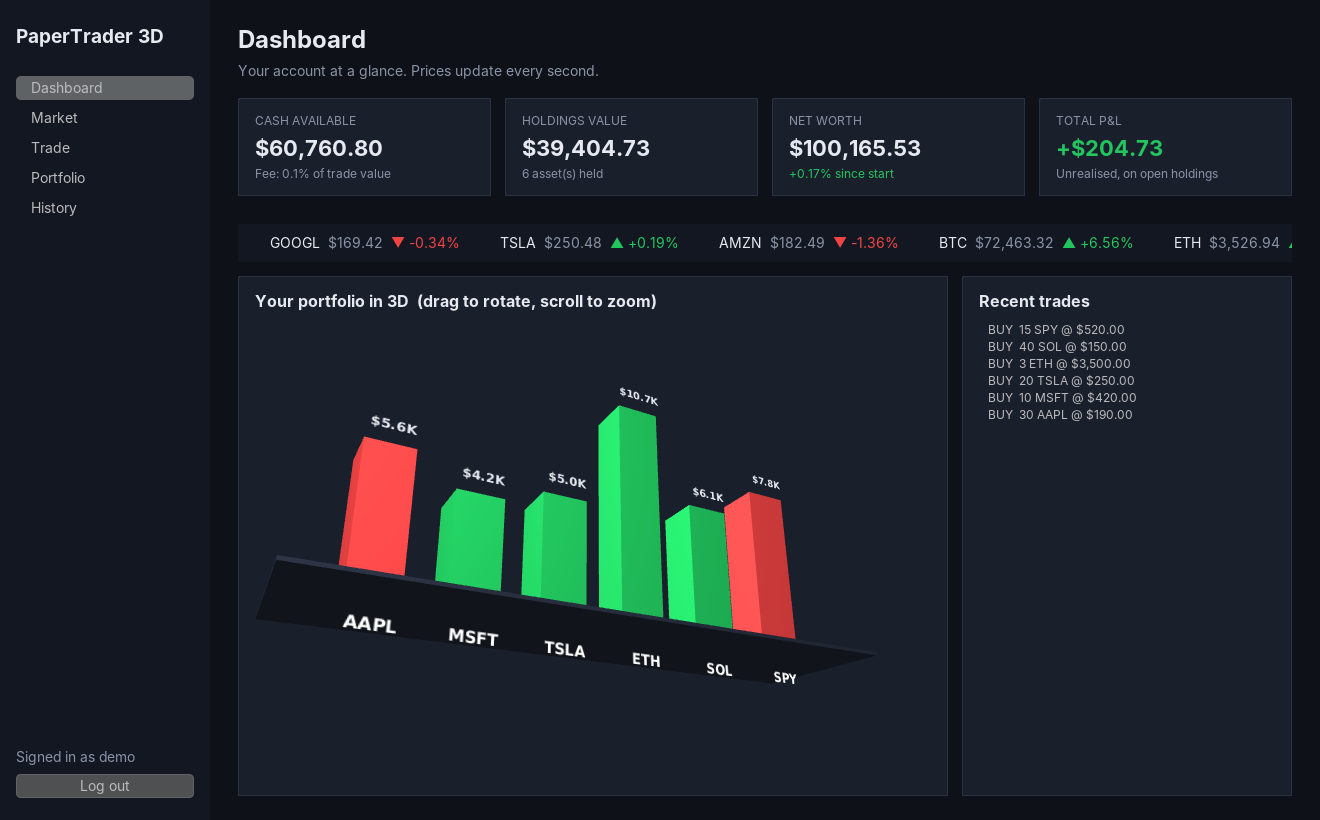
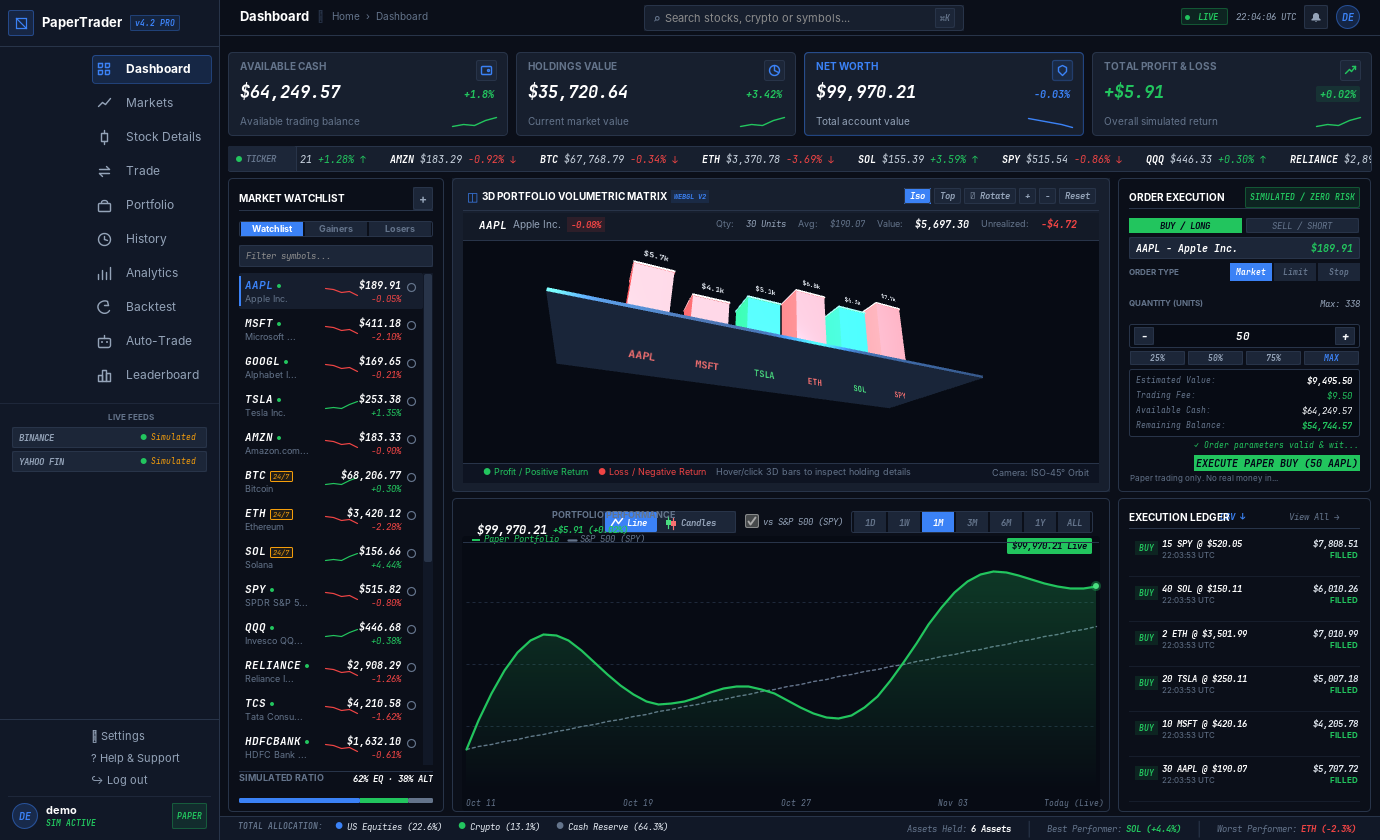
Spiral loop 6: update SRS, UML, docs and screenshots for the new features

diff --git a/README.md b/README.md
@@ -2,7 +2,9 @@
 
 A Java desktop app for practising trading **stocks, crypto and ETFs** with virtual money.
 It uses **real live market prices** (Binance for crypto, Finnhub / Yahoo Finance for stocks and ETFs),
-with Market / Limit / Stop-Loss orders, portfolio P&L, and **3D visuals**
+with Market / Limit / Stop-Loss / Take-Profit orders, realistic fills (bid/ask spread + slippage),
+candlestick charts, an order book, **backtesting with historical replay**, **risk analytics**
+(Sharpe, Sortino, max drawdown, win rate, profit factor), **auto-trading bots**, a **leaderboard**, and **3D visuals**
 (a JavaFX 3D portfolio chart you can rotate and a spinning 3D coin on the login screen).
 
 Built as an OOP / Software Engineering project: four OOP pillars, interfaces, SOLID, high cohesion
@@ -11,8 +13,28 @@ and low coupling, an SRS using **FODA**, 4 UML diagrams, and the **Spiral** SDLC
 | Login (3D coin) | Dashboard (3D portfolio) |
 |---|---|
 | ![login](docs/screenshots/01-login.png) | ![dashboard](docs/screenshots/02-dashboard.png) |
-| **Market (live prices + chart)** | **Trade (order form + preview)** |
-| ![market](docs/screenshots/03-market.png) | ![trade](docs/screenshots/04-trade.png) |
+| **Stock Details (real candlesticks + indicators)** | **Trade terminal (4 order types + order book)** |
+| ![market](docs/screenshots/07-market-candles.png) | ![trade](docs/screenshots/08-trade-orderbook.png) |
+| **Backtest (historical replay 1x/2x/5x)** | **Analytics (risk metrics + equity curve)** |
+| ![backtest](docs/screenshots/09-backtest.png) | ![analytics](docs/screenshots/11-analytics.png) |
+| **Auto-Trade (strategy bots)** | **Leaderboard** |
+| ![bots](docs/screenshots/10-autotrade.png) | ![leaderboard](docs/screenshots/12-leaderboard.png) |
+
+## Features
+
+| Area | What you get |
+|---|---|
+| Orders | Market, Limit, Stop-Loss (SL-M), Take-Profit (TP). Waiting orders execute automatically on price updates. |
+| Realistic fills | Buy at the **ask**, sell at the **bid** (spread depends on asset type), plus random **slippage** and **market impact** for big orders. Limit orders never fill worse than their limit. 0.1% brokerage fee. |
+| Portfolio | Cash, holdings value, net worth, **realized P&L** (locked in by sells) and **unrealized P&L**, average entry price per position. |
+| Market data | Real live prices (Binance, Finnhub / Yahoo Finance) with offline simulation fallback. |
+| Charts | Candlestick / line / Heikin-Ashi chart built from **real price history** (Binance, Yahoo Finance; NSE stocks via `.NS`). Ranges 1D / 1W / 1M / 3M / 1Y / 5Y / ALL use 5-minute, 1-hour, daily and weekly candles. SMA 20, EMA 50, real RSI(14), MACD and VWAP. Live prices keep the newest candle moving. |
+| Order book | Level 2 **market depth**: 5 bid and 5 ask levels built around the real bid/ask, with the spread and bid/ask ratio. |
+| Backtesting | Replay a year of **real daily candles** at **1x / 2x / 5x** or instantly. Strategies: SMA crossover, RSI, Buy & Hold, or your own price rule. Buy/sell arrows on the chart, equity curve, and comparison to buy & hold. |
+| Risk analytics | **Sharpe, Sortino, max drawdown, win rate, profit factor**, total return and an equity curve, both for your account and for every backtest. |
+| Auto-trading | Start **bots** that follow a strategy or a custom IF/THEN price rule and place real paper orders, with a live activity log. |
+| Multi-user | Register / log in, **leaderboard** ranking all traders by net worth, **reset account** to start over. |
+| 3D | Rotatable JavaFX 3D portfolio chart, spinning 3D coin on the login screen. |
 
 ## Run it
 
@@ -20,7 +42,7 @@ Requirements: **Java 17+** and **Maven** (IntelliJ IDEA / Eclipse / VS Code can 
 
 ```bash
 mvn compile exec:java          # start the app
-mvn test                       # run the 32 unit tests
+mvn test                       # run the 58 unit tests
 mvn package                    # build target/paper-trading-simulator-1.0.0.jar
 java -jar target/paper-trading-simulator-1.0.0.jar
 ```
@@ -69,21 +91,30 @@ src/main/java/com/papertrader/
 ├── App.java                 entry point + wiring (composition root)
 ├── ConsoleDemo.java         spiral loop-1 console prototype
 ├── model/                   Asset ← Stock, Crypto, ETF
-│                            Order ← MarketOrder, LimitOrder, StopLossOrder
+│                            Order ← MarketOrder, LimitOrder, StopLossOrder, TakeProfitOrder
+│                            Candle, Timeframe, TradeMarker
+├── execution/               ExecutionModel ← RealisticExecutionModel (spread + slippage), PerfectExecutionModel;
+│                            OrderBookSimulator
+├── strategy/                TradingStrategy ← SmaCrossover, Rsi, BuyAndHold, PriceRule; Indicators
+├── backtest/                BacktestEngine (step-by-step historical replay)
+├── analytics/               PerformanceAnalyzer (Sharpe, Sortino, drawdown, win rate, profit factor)
+├── bot/                     TradingBot, BotService (auto-trading)
 │                            User, Account, Portfolio, Holding, Transaction, enums
-├── interfaces/              PriceFeed, PriceListener, QuoteProvider, FeeCalculator,
+├── interfaces/              PriceFeed, PriceListener, QuoteProvider, HistoryProvider, FeeCalculator, EquityRepository,
 │                            Repository<T,ID>, TransactionRepository, Exportable
 ├── feed/                    LivePriceFeed (real prices) + Binance/Finnhub/Yahoo QuoteProviders,
 │                            SimulatedPriceFeed (offline random-walk prices)
 ├── fees/                    PercentageFeeCalculator, FlatFeeCalculator
 ├── repository/              InMemory… and File… repositories (CSV in data/)
-├── service/                 AuthService, MarketService, TradingService, PortfolioService
+├── service/                 AuthService, MarketService, TradingService, PortfolioService, ChartService,
+│                            AnalyticsService, LeaderboardService, AppContext
 ├── exception/               SimulatorException ← InsufficientFunds, InvalidOrder, Auth
 ├── util/                    Formatter, PasswordHasher, CsvExporter, AppConfig
 └── ui/                      MainFrame, LoginPanel, BasePanel ← Dashboard/Market/Trade/
-    ├── components/          Portfolio/History panels; StatCard, LineChartPanel, TickerPanel, renderers
+    ├── components/          Portfolio/History/Analytics/Backtest/AutoTrade/Leaderboard panels;
+    │                        StatCard, LineChartPanel, CandleChartPanel, OrderBookPanel, StrategyPicker, TickerPanel, renderers
     └── three/               Base3DView ← Coin3DView, Portfolio3DView (JavaFX 3D)
-src/test/java/com/papertrader/   32 JUnit tests
+src/test/java/com/papertrader/   58 JUnit tests
 docs/
 ├── SRS.md                   Software Requirements Specification (FODA)
 ├── SpiralModel.md           SDLC: 4 spiral loops

diff --git a/docs/OOP-SOLID-Mapping.md b/docs/OOP-SOLID-Mapping.md
@@ -27,7 +27,7 @@ Every concept below points to the exact file to open during the viva.
 | Parent | Children |
 |---|---|
 | `Asset` | `Stock`, `Crypto`, `ETF` |
-| `Order` | `MarketOrder`, `LimitOrder`, `StopLossOrder` |
+| `Order` | `MarketOrder`, `LimitOrder`, `StopLossOrder`, `TakeProfitOrder` |
 | `SimulatorException` (extends `Exception`) | `InsufficientFundsException`, `InvalidOrderException`, `AuthException` |
 | `InMemoryUserRepository` | `FileUserRepository` (calls `super.save()` then writes the file) |
 | `BasePanel` (extends `JPanel`) | `DashboardPanel`, `MarketPanel`, `TradePanel`, `PortfolioPanel`, `HistoryPanel` |
@@ -49,6 +49,9 @@ Every concept below points to the exact file to open during the viva.
 - `TradingService.placeOrder()` and `onPriceUpdate()` call `order.canExecute(price)` on an `Order` reference. The object may be a `MarketOrder`, `LimitOrder` or `StopLossOrder`.
 - `SimulatedPriceFeed.tick()` calls `asset.getVolatility()`, so Crypto moves more than ETF.
 - `LivePriceFeed` calls `provider.fetchQuotes(...)` on a `QuoteProvider` reference; Binance, Finnhub or Yahoo code runs.
+- `TradingService.execute()` calls `order.adjustFillPrice(fill)`: only `LimitOrder` overrides it, so a limit order never fills worse than its limit.
+- `BacktestEngine.step()` and `BotService.runBot()` call `strategy.decide(...)` on a `TradingStrategy` reference: SMA, RSI, Buy & Hold or Price Rule code runs.
+- `TradingService` calls `executionModel.getFillPrice(...)`: realistic (spread + slippage) in the app, perfect in tests.
 - `App` holds a `PriceFeed` reference that is a `LivePriceFeed` or a `SimulatedPriceFeed`; the rest of the app can't tell.
 - `MainFrame.refreshCurrentPage()` calls `currentPage.refresh()` on a `BasePanel` reference.
 - `LineChartPanel.paintComponent()` overrides Swing's method; Swing calls our version.
@@ -64,6 +67,10 @@ Every concept below points to the exact file to open during the viva.
 | `Repository<T, ID>` (generic) | `InMemoryUserRepository`, `FileUserRepository` | storage independence |
 | `TransactionRepository` (extends `Repository`) | `InMemoryTransactionRepository`, `FileTransactionRepository` | interface inheritance |
 | `Exportable` | `Transaction`, `Holding` | `CsvExporter` works with any of them |
+| `ExecutionModel` | `RealisticExecutionModel`, `PerfectExecutionModel` | how orders fill (spread, slippage) |
+| `TradingStrategy` | `SmaCrossoverStrategy`, `RsiStrategy`, `BuyAndHoldStrategy`, `PriceRuleStrategy` | one interface reused by backtests AND bots |
+| `HistoryProvider` | `BinanceQuoteProvider`, `YahooQuoteProvider`, `SimulatedHistoryProvider` | candles for charts/backtests. Binance and Yahoo implement **two interfaces** (`QuoteProvider` + `HistoryProvider`); Finnhub implements only one (ISP) |
+| `EquityRepository` | `InMemoryEquityRepository`, `FileEquityRepository` | equity curve storage |
 | `Refreshable` | `BasePanel` | every page can refresh itself |
 
 ## 3. SOLID principles
@@ -92,6 +99,9 @@ Every concept below points to the exact file to open during the viva.
 | Repository | `Repository<T, ID>` |
 | Template Method | `Base3DView.start3D()` + abstract `createScene()` |
 | Composition / fallback | `LivePriceFeed` HAS-A `SimulatedPriceFeed` for assets no API covers |
+| Strategy (again) | `TradingStrategy`, `ExecutionModel` |
+| Factory method | `StrategyPicker.createStrategy()` builds the chosen strategy object |
+| Parameter object | `AppContext` record carries all services to `MainFrame` |
 | Composition root / Dependency Injection | `App.start()` |
 
 ## 6. Likely viva questions
@@ -101,6 +111,12 @@ Every concept below points to the exact file to open during the viva.
 - **Why a Swing Timer for simulated prices?** It runs on the UI thread, so the UI and engine never run at the same time. No locks needed.
 - **Live prices come from the internet. Doesn't that freeze the UI?** No. `LivePriceFeed` downloads on a background thread (`ScheduledExecutorService`), then hands results to the UI thread with `SwingUtilities.invokeLater`. So listeners still run on the UI thread, like with the simulator.
 - **Which API and why?** Crypto: Binance, the exchange itself, so it's the actual traded price. Stocks/ETFs: Finnhub, an official real-time US exchange feed (free key), or Yahoo Finance when there's no key. Each website is one `QuoteProvider` class.
+- **How do you stop a backtest from cheating (look-ahead bias)?** `BacktestEngine.step()` passes `candles.subList(0, index + 1)` to the strategy, so it only ever sees the past.
+- **What's the difference between Sharpe and Sortino?** Sharpe divides the average return by the volatility of ALL returns. Sortino only counts the volatility of NEGATIVE returns, because upside moves aren't really "risk". Both use daily returns × √(days per year).
+- **What is max drawdown?** The biggest fall from a peak to a later low: `(peak − value) / peak`, the worst value seen.
+- **Profit factor?** Total money won ÷ total money lost. Above 1 means the strategy makes money overall.
+- **Why does a buy cost more than the last price?** `RealisticExecutionModel`: buyers pay the ask (half a spread above), plus random slippage and a size-based market impact. A limit order is protected by `LimitOrder.adjustFillPrice()`.
+- **Realized vs unrealized P&L?** Realized = profit locked in by a sale: `(sell price − average cost) × units − fee`, stored on the SELL transaction. Unrealized = paper profit on holdings you still own.
 - **What if the internet drops?** The last price is kept, the sidebar shows "offline", and it retries on the next refresh. With no internet at start-up, the app uses the simulator.
 - **How does 3D work in a Swing app?** `JFXPanel` is a Swing component that hosts a JavaFX scene. JavaFX 3D shapes (`Box`, `Cylinder`), `PhongMaterial`, `PointLight` and `PerspectiveCamera` draw the 3D view.
 - **How is data saved?** CSV files in `data/`. `FileUserRepository` extends the in-memory repository and writes files after each save.

diff --git a/docs/SRS.md b/docs/SRS.md
@@ -57,7 +57,7 @@ internet; without internet it switches to simulated prices. Data is stored in CS
 `data/` folder next to the app.
 
 ### 2.2 Product functions (summary)
-1. Register, log in, log out
+1. Register, log in, log out, reset account, leaderboard
 2. View live real market prices (simulated when offline) and a price chart per asset
 3. Place Market, Limit and Stop-Loss orders (buy and sell)
 4. Preview the fee and total before trading
@@ -66,6 +66,10 @@ internet; without internet it switches to simulated prices. Data is stored in CS
 7. View portfolio holdings with live value and P&L
 8. View transaction history and export it to CSV
 9. View a 3D bar chart of the portfolio and a 3D animated login screen
+10. Candlestick charts (1D to ALL ranges) and a simulated order book
+11. Backtest strategies with historical replay (1x/2x/5x)
+12. Risk analytics: Sharpe, Sortino, max drawdown, win rate, profit factor
+13. Auto-trading bots driven by strategies or custom price rules
 
 ### 2.3 User classes
 | User | Description |
@@ -132,6 +136,15 @@ Feature types used (FODA notation):
 | CSV export | Optional | |
 | Persistence | Mandatory, **alternative** | CSV files (app) or in-memory (tests) |
 | Visualisation: 3D bars, 3D coin, live ticker | Optional | |
+| Order Type: Take-Profit | Member of the order-type or-group | |
+| Execution Model | Mandatory, **alternative** | Realistic (spread + slippage, app) or Perfect (tests) |
+| Candlestick chart: 1D / 1W / 1M / 3M / 1Y / 5Y / ALL | Optional, **or-group** | |
+| Order book depth | Optional | |
+| Backtesting & replay | Optional | requires *History provider* and *Strategy* |
+| Strategy | Mandatory under Backtesting / Bots, **or-group** | SMA Crossover, RSI, Buy & Hold, Price Rule |
+| Risk analytics | Optional | Sharpe, Sortino, Max DD, Win rate, Profit factor |
+| Auto-trading bots | Optional | requires *Strategy* and *Trading* |
+| Leaderboard, Reset account | Optional | requires *User Management* |
 
 **Composition rules** (constraints between features):
 - *Limit* and *Stop-Loss* **require** *Price Source* (they wait for price ticks).
@@ -209,6 +222,19 @@ See [uml/component-diagram.png](uml/component-diagram.png).
 | FR-22 | The system shall list all transactions, newest first, and export them to CSV. | Medium |
 | FR-23 | The system shall save users, holdings and transactions to disk and load them on the next start. | High |
 | FR-24 | The system shall create a demo account (`demo` / `demo`) with sample holdings on first run. | Low |
+| FR-25 | The system shall support **Take-Profit** orders (sell when price ≥ target, buy when price ≤ target). | High |
+| FR-26 | The system shall fill buys at the **ask** and sells at the **bid**, with a spread that depends on asset type (ETF 0.01%, Stock 0.02%, Crypto 0.05%). | High |
+| FR-27 | The system shall add random **slippage** (up to 0.05%) and **market impact** (0.1% per $1M of order value) against the trader; a Limit order shall never fill worse than its limit. | High |
+| FR-28 | The system shall record **realized P&L** on every sell ((fill price − average cost) × units − fee) and show realized and unrealized P&L separately. | High |
+| FR-29 | The system shall show an interactive **candlestick chart** from real history (Binance klines, Yahoo chart) with ranges 1D / 1W / 1M / 3M / 1Y / 5Y / ALL (5-minute, 1-hour, daily and weekly candles), volume, OHLC crosshair, SMA/EMA/RSI/MACD, kept up to date by live prices. | High |
+| FR-30 | The system shall show a simulated **order book** (bid and ask levels around the real bid/ask, and the spread) for the selected asset. | Medium |
+| FR-31 | The system shall **backtest** a chosen strategy on one year of daily candles with virtual cash, replaying candle by candle at **1x, 2x, 5x** or instantly, with pause and reset. | High |
+| FR-32 | The system shall offer the strategies SMA Crossover (10/30), RSI (14, 30/70), Buy & Hold and a user-defined price rule (IF price ≤ X THEN buy, IF price ≥ Y THEN sell). | High |
+| FR-33 | The system shall compute **Sharpe ratio, Sortino ratio, maximum drawdown, win rate, profit factor** and total return for both backtests and the user's account. | High |
+| FR-34 | The system shall record the user's net worth every 15 seconds as an equity curve, and draw it. | Medium |
+| FR-35 | The system shall let the user start **trading bots** that apply a strategy to live 1-minute candles every 5 seconds and place paper orders; a bot only sells units it bought itself. | High |
+| FR-36 | The system shall show a **leaderboard** of all users ranked by net worth with return %, realized P&L and number of trades. | Medium |
+| FR-37 | The system shall let a user **reset** their account (cash back to the start, holdings, history, pending orders and bots cleared) after confirmation. | Medium |
 
 ### 4.2 Non-functional requirements
 
@@ -264,4 +290,10 @@ Diagram: [uml/use-case-diagram.png](uml/use-case-diagram.png)
 | FR-17 | `FeeCalculator` implementations | `FeeCalculatorTest` |
 | FR-18 | `Portfolio`, `Holding` | `PortfolioTest` |
 | FR-23 | `FileUserRepository`, `FileTransactionRepository` | `PersistenceTest` |
+| FR-25..28 | `TakeProfitOrder`, `RealisticExecutionModel`, `Asset.getBid/getAsk`, `TradingService` | `ExecutionModelTest`, `LeaderboardAndResetTest` |
+| FR-29..30 | `ChartService`, `HistoryProvider`s, `CandleChartPanel`, `OrderBookSimulator` | `ChartServiceTest`, `QuoteParsingTest`, `ExecutionModelTest` |
+| FR-31..33 | `BacktestEngine`, `TradingStrategy` implementations, `PerformanceAnalyzer` | `StrategyAndBacktestTest`, `PerformanceAnalyzerTest` |
+| FR-34 | `AnalyticsService`, `FileEquityRepository` | manual |
+| FR-35 | `TradingBot`, `BotService` | manual (screenshot) |
+| FR-36..37 | `LeaderboardService`, `TradingService.resetAccount` | `LeaderboardAndResetTest` |
 | FR-20 | `Portfolio3DView` | manual (screenshot) |

diff --git a/docs/SpiralModel.md b/docs/SpiralModel.md
@@ -1,7 +1,7 @@
 # SDLC: Spiral Model
 
 We built PaperTrader 3D with the **Spiral model** (Boehm, 1988). The project went around the
-spiral five times. Each loop has the same four quadrants:
+spiral six times. Each loop has the same four quadrants:
 
 1. **Determine objectives** (planning): what this loop must deliver
 2. **Identify and resolve risks** (risk analysis): what could go wrong, and a prototype or test to reduce it
@@ -14,13 +14,14 @@ calculations) could be tried early in small prototypes before the full app was b
 ```
                      Planning  |  Risk analysis
                                |
-          Loop 5 -----------------------------------------.
-          Loop 4 ----------------------------------.      |
-          Loop 3 ---------------------------.      |      |
-          Loop 2 --------------------.      |      |      |
-          Loop 1 -------------.      |      |      |      |
-                              *      |      |      |      |
-                     ---------+------+------+------+------+-->  cost / time
+          Loop 6 ------------------------------------------------.
+          Loop 5 -----------------------------------------.      |
+          Loop 4 ----------------------------------.      |      |
+          Loop 3 ---------------------------.      |      |      |
+          Loop 2 --------------------.      |      |      |      |
+          Loop 1 -------------.      |      |      |      |      |
+                              *      |      |      |      |      |
+                     ---------+------+------+------+------+------+-->  cost / time
                               |
                     Evaluation | Engineering
 ```
@@ -75,4 +76,14 @@ calculations) could be tried early in small prototypes before the full app was b
 | Risks | *Inaccurate or delayed data.* *API keys leaking into Git.* *Rate limits (HTTP 429).* *Slow or no internet freezing the UI.* *An API changing or going down.* |
 | Risk resolution | Compared sources and picked **Binance** for crypto (exchange's own prices, no key) and **Finnhub** for stocks/ETFs (official real-time US quotes, free key), with **Yahoo Finance** as a no-key option. Key read from env var or git-ignored `config.properties`. Refresh rates kept under free limits (3 s / 15 s). Downloads run on a background thread and results go back to the UI thread. If an API fails, the last price is kept; if none answer at start-up, the app uses the simulator. JSON parsing is unit-tested with sample answers and the feed is tested with a fake provider. |
 | Develop | `QuoteProvider` interface, `HttpQuoteProvider` + 3 providers, `LivePriceFeed`, `AppConfig`, sidebar data-status label. **No changes were needed in `MarketService`, `TradingService` or the pages**, because they only depend on the `PriceFeed` interface (Open/Closed principle proven in practice). |
-| Evaluate | 32 tests green. Future loop ideas: database storage (new `Repository`), trailing-stop order (new `Order` subclass), Indian NSE stocks (new `QuoteProvider`). |
+| Evaluate | 32 tests green. Feedback: the project should feel like a professional trading platform (realistic fills, charts, analytics, backtesting, automation, competition). That became loop 6. |
+
+## Loop 6: Professional trading features
+
+| Quadrant | Work done |
+|---|---|
+| Objectives | Take-Profit orders, spread + slippage, realized P&L, candlestick charts (real history, 1D to ALL ranges), order book, backtesting with historical replay, risk analytics, auto-trading bots, leaderboard and account reset. |
+| Risks | *Wrong financial formulas* (Sharpe, Sortino, drawdown). *Look-ahead bias* in backtests (a strategy secretly seeing the future). *Bots selling the user's own shares.* *Meaningless Sharpe values from a few seconds of data.* *UI freezing while history downloads.* *The code getting too big to explain.* |
+| Risk resolution | Every formula is unit-tested against hand-calculated values. `BacktestEngine` only gives the strategy `candles.subList(0, i + 1)`, so it can never see the future. Each bot tracks its own position and only sells what it bought. Sharpe/Sortino use **daily** returns and show "n/a" until there are 3 days of data. History loads on a background thread. The same `TradingStrategy` interface is reused by backtests and bots. |
+| Develop | Packages `execution`, `strategy`, `backtest`, `analytics`, `bot`; `ChartService`, `AnalyticsService`, `LeaderboardService`; 4 new pages (Analytics, Backtest, Auto-Trade, Leaderboard); candlestick chart and order book components. Existing classes changed only where needed (`TradingService` gets an `ExecutionModel` through its constructor, `Transaction` gained realized P&L). |
+| Evaluate | 58 tests green. The UI was then redesigned as a trading terminal (sidebar with 10 pages); the new features were fitted into it: the terminal's candlestick chart now reads real history from `ChartService`, its depth panel uses `OrderBookSimulator`, the order ticket gained Take-Profit, and Portfolio/History show the real realized P&L. Margin/leverage was considered and left out to keep the project explainable. Future ideas: margin accounts, short selling, OCO/bracket orders, Indian NSE data. |
